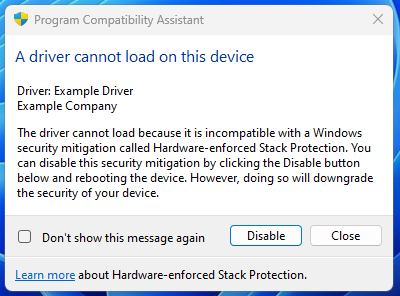
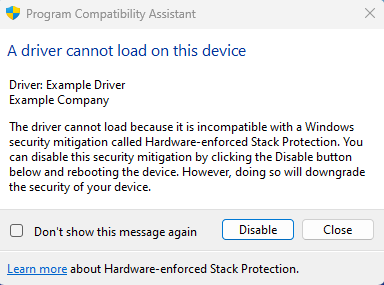
modify related content section

Changed region(s): [[0.0, 0.0, 1.0, 1.0]]

diff --git a/WindowsServerDocs/security/kernel-mode-hardware-stack-protection.md b/WindowsServerDocs/security/kernel-mode-hardware-stack-protection.md
@@ -95,8 +95,9 @@ Certain apps use drivers that are incompatible with Kernel-mode Hardware-enforce
 
  You can optionally disable the security feature, although doing so downgrades the security of your device. You can always re-enable this feature in the Windows Security application.
 
-## Next step or Related content
+## Related content
 
 - [Understanding Hardware-enforced Stack Protection](https://techcommunity.microsoft.com/t5/windows-os-platform-blog/understanding-hardware-enforced-stack-protection/ba-p/1247815)
 - [Developer Guidance for Hardware-enforced Stack Protection](https://techcommunity.microsoft.com/t5/windows-os-platform-blog/developer-guidance-for-hardware-enforced-stack-protection/ba-p/2163340)
+- [Enable virtualization-based protection of code integrity](s/windows/security/hardware-security/enable-virtualization-based-protection-of-code-integrity)
 - [Memory integrity and VBS enablement](/windows-hardware/design/device-experiences/oem-hvci-enablement)
